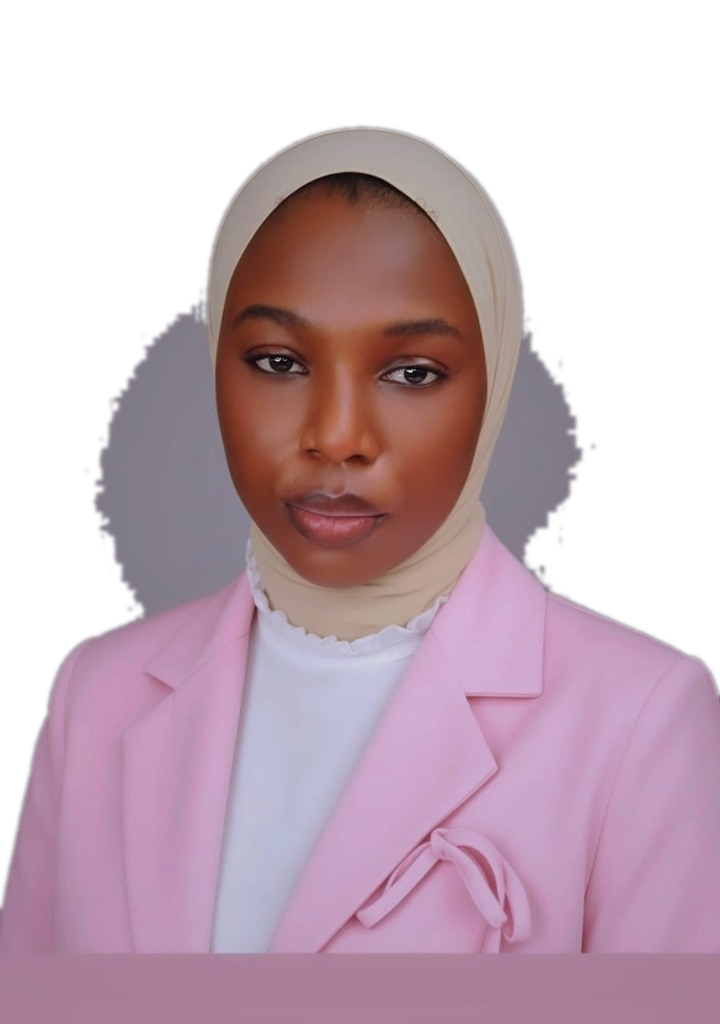
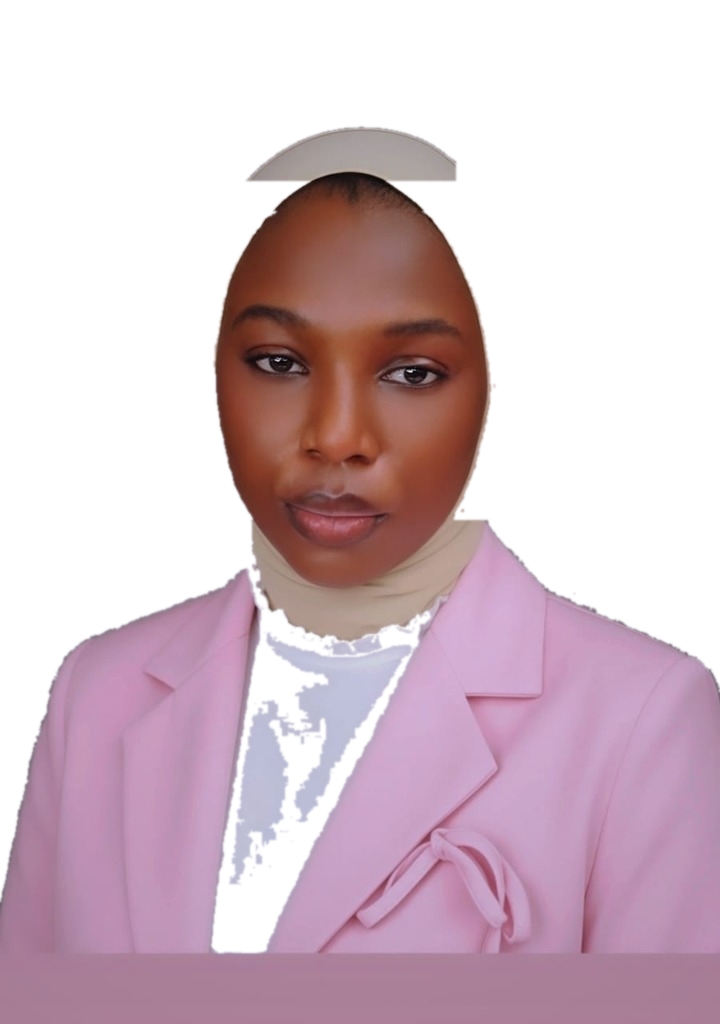
fix(hero): make Hi bold on single line, scale typography, eliminate background stain, and adjust hero layout above fold

diff --git a/app/components/Hero.tsx b/app/components/Hero.tsx
@@ -59,87 +59,86 @@ export default function Hero() {
   return (
     <section
       id="home"
-      className="relative w-full bg-[#E10600] text-white pt-28 sm:pt-36 pb-32 sm:pb-44 overflow-hidden"
+      className="relative w-full min-h-[calc(100vh-4rem)] lg:min-h-screen bg-[#E10600] text-white pt-20 sm:pt-24 lg:pt-24 pb-20 sm:pb-28 overflow-hidden flex flex-col justify-center"
     >
       {/* Subtle depth lighting */}
-      <div className="absolute inset-0 bg-[radial-gradient(circle_at_top_right,_rgba(255,255,255,0.15),_transparent_60%)] pointer-events-none" />
+      <div className="absolute inset-0 bg-[radial-gradient(circle_at_top_right,_rgba(255,255,255,0.12),_transparent_60%)] pointer-events-none" />
       <div className="absolute -bottom-24 -left-24 w-96 h-96 rounded-full bg-[#A00400]/40 blur-3xl pointer-events-none" />
 
-      <div className="max-w-7xl mx-auto px-4 sm:px-6 lg:px-8 relative z-10">
-        <div className="grid grid-cols-1 lg:grid-cols-12 gap-12 lg:gap-8 items-center">
+      <div className="max-w-7xl mx-auto px-4 sm:px-6 lg:px-8 relative z-10 w-full">
+        <div className="grid grid-cols-1 lg:grid-cols-12 gap-8 lg:gap-8 items-center">
           
-          {/* Left Column: Eyebrow, Headline, Punchy Sub-text, Buttons (NO voice note UI box, NO double about copy) */}
+          {/* Left Column: Eyebrow, Bold "Hi!" on one line, Sub-headline, Concise Sub-text, Immediate Buttons */}
           <motion.div
             initial={{ opacity: 0, y: 30 }}
             animate={{ opacity: 1, y: 0 }}
             transition={{ duration: 0.8, ease: "easeOut" }}
-            className="lg:col-span-7 flex flex-col items-start space-y-6"
+            className="lg:col-span-7 flex flex-col items-start space-y-4 sm:space-y-5"
           >
             {/* Eyebrow */}
-            <span className="inline-flex items-center px-4 py-1.5 rounded-full bg-white/15 backdrop-blur-md text-white text-[11px] sm:text-xs font-bold uppercase tracking-wider border border-white/20">
+            <span className="inline-flex items-center px-3.5 py-1 rounded-full bg-white/15 backdrop-blur-md text-white text-[11px] sm:text-xs font-bold uppercase tracking-wider border border-white/20">
               TECHNOLOGY LEADER &amp; INNOVATOR
             </span>
 
-            {/* Headline */}
-            <div>
-              <h1 className="font-heading text-4xl sm:text-6xl lg:text-[4.2rem] font-extrabold text-white leading-[1.08] tracking-tight">
-                Hi, I&apos;m a<br />
-                Technology Entrepreneur &amp; Product Builder.
+            {/* Headline Layout: "Hi!" bold on one line, followed by smaller role declaration */}
+            <div className="space-y-2">
+              <h1 className="font-heading text-5xl sm:text-6xl lg:text-7xl font-extrabold text-white tracking-tight leading-none">
+                Hi!
               </h1>
+              <p className="text-xl sm:text-2xl lg:text-[1.65rem] font-semibold text-white/95 leading-snug">
+                I&apos;m a Technology Entrepreneur &amp; Product Builder.
+              </p>
             </div>
 
-            {/* Sub-text (Concise, punchy - no repetition with About section) */}
-            <p className="text-base sm:text-lg lg:text-xl text-white/95 max-w-xl leading-relaxed font-normal">
+            {/* Sub-text: Crisp, high-impact overview */}
+            <p className="text-sm sm:text-base lg:text-lg text-white/90 max-w-xl leading-relaxed font-normal">
               I work at the intersection of financial infrastructure, climate innovation, and digital health. I build early-stage ventures and lead multidisciplinary initiatives to solve systemic problems across emerging markets and beyond.
             </p>
 
-            {/* Action Buttons */}
-            <div className="flex flex-wrap items-center gap-4 pt-2 w-full sm:w-auto">
+            {/* Action Buttons: Positioned directly above fold so no scrolling is required */}
+            <div className="flex flex-wrap items-center gap-3.5 pt-1 w-full sm:w-auto">
               <a
                 href="#ventures"
-                className="w-full sm:w-auto inline-flex items-center justify-center px-8 py-3.5 rounded-full bg-white text-[#111111] font-bold text-sm sm:text-base hover:bg-white/95 active:scale-95 transition-all shadow-xl"
+                className="w-full sm:w-auto inline-flex items-center justify-center px-7 py-3 rounded-full bg-white text-[#111111] font-bold text-sm sm:text-base hover:bg-white/95 active:scale-95 transition-all shadow-xl"
               >
                 View My Work
               </a>
 
               <a
                 href="#contact"
-                className="w-full sm:w-auto inline-flex items-center justify-center px-8 py-3.5 rounded-full border-2 border-white text-white font-bold text-sm sm:text-base hover:bg-white/10 active:scale-95 transition-all"
+                className="w-full sm:w-auto inline-flex items-center justify-center px-7 py-3 rounded-full border-2 border-white text-white font-bold text-sm sm:text-base hover:bg-white/10 active:scale-95 transition-all"
               >
                 Contact Me
               </a>
             </div>
           </motion.div>
 
-          {/* Right Column: Unboxed, Free-Floating Cutout Photo on Red Background */}
+          {/* Right Column: Shifted upward, clean cutout without grey stain, fully visible above fold */}
           <motion.div
             initial={{ opacity: 0, scale: 0.95 }}
             animate={{ opacity: 1, scale: 1 }}
             transition={{ duration: 0.9, ease: "easeOut", delay: 0.2 }}
-            className="lg:col-span-5 flex justify-center lg:justify-end relative"
+            className="lg:col-span-5 flex justify-center lg:justify-end relative -mt-4 sm:-mt-8 lg:-mt-12"
           >
             {/* Gentle Floating Motion Container */}
             <motion.div
-              animate={{ y: [-6, 6, -6] }}
+              animate={{ y: [-5, 5, -5] }}
               transition={{
                 duration: 5,
                 repeat: Infinity,
                 ease: "easeInOut",
               }}
-              className="relative w-full max-w-sm sm:max-w-md aspect-[720/1024] flex items-center justify-center"
+              className="relative w-full max-w-[280px] sm:max-w-sm lg:max-w-[340px] aspect-[720/1024] flex items-center justify-center"
             >
-              {/* Subtle back depth illumination */}
-              <div className="absolute inset-8 rounded-full bg-white/10 blur-3xl pointer-events-none" />
-
-              {/* Unboxed portrait: No borders, no card box, transparent cutout feathered into red canvas */}
-              <div className="relative w-full h-full overflow-hidden [mask-image:linear-gradient(to_bottom,black_85%,transparent_100%)]">
+              {/* Unboxed portrait: Clean transparent cutout on pure red canvas */}
+              <div className="relative w-full h-full overflow-hidden [mask-image:linear-gradient(to_bottom,black_88%,transparent_100%)]">
                 <Image
                   src="/images/fatima_pink_blazer_cutout.png"
                   alt="Fatima Binta Wada - Technology Entrepreneur & Product Builder"
                   fill
                   priority
                   className="object-contain object-bottom drop-shadow-2xl select-none pointer-events-none"
-                  sizes="(max-width: 768px) 100vw, 480px"
+                  sizes="(max-width: 768px) 280px, 340px"
                 />
               </div>
             </motion.div>
